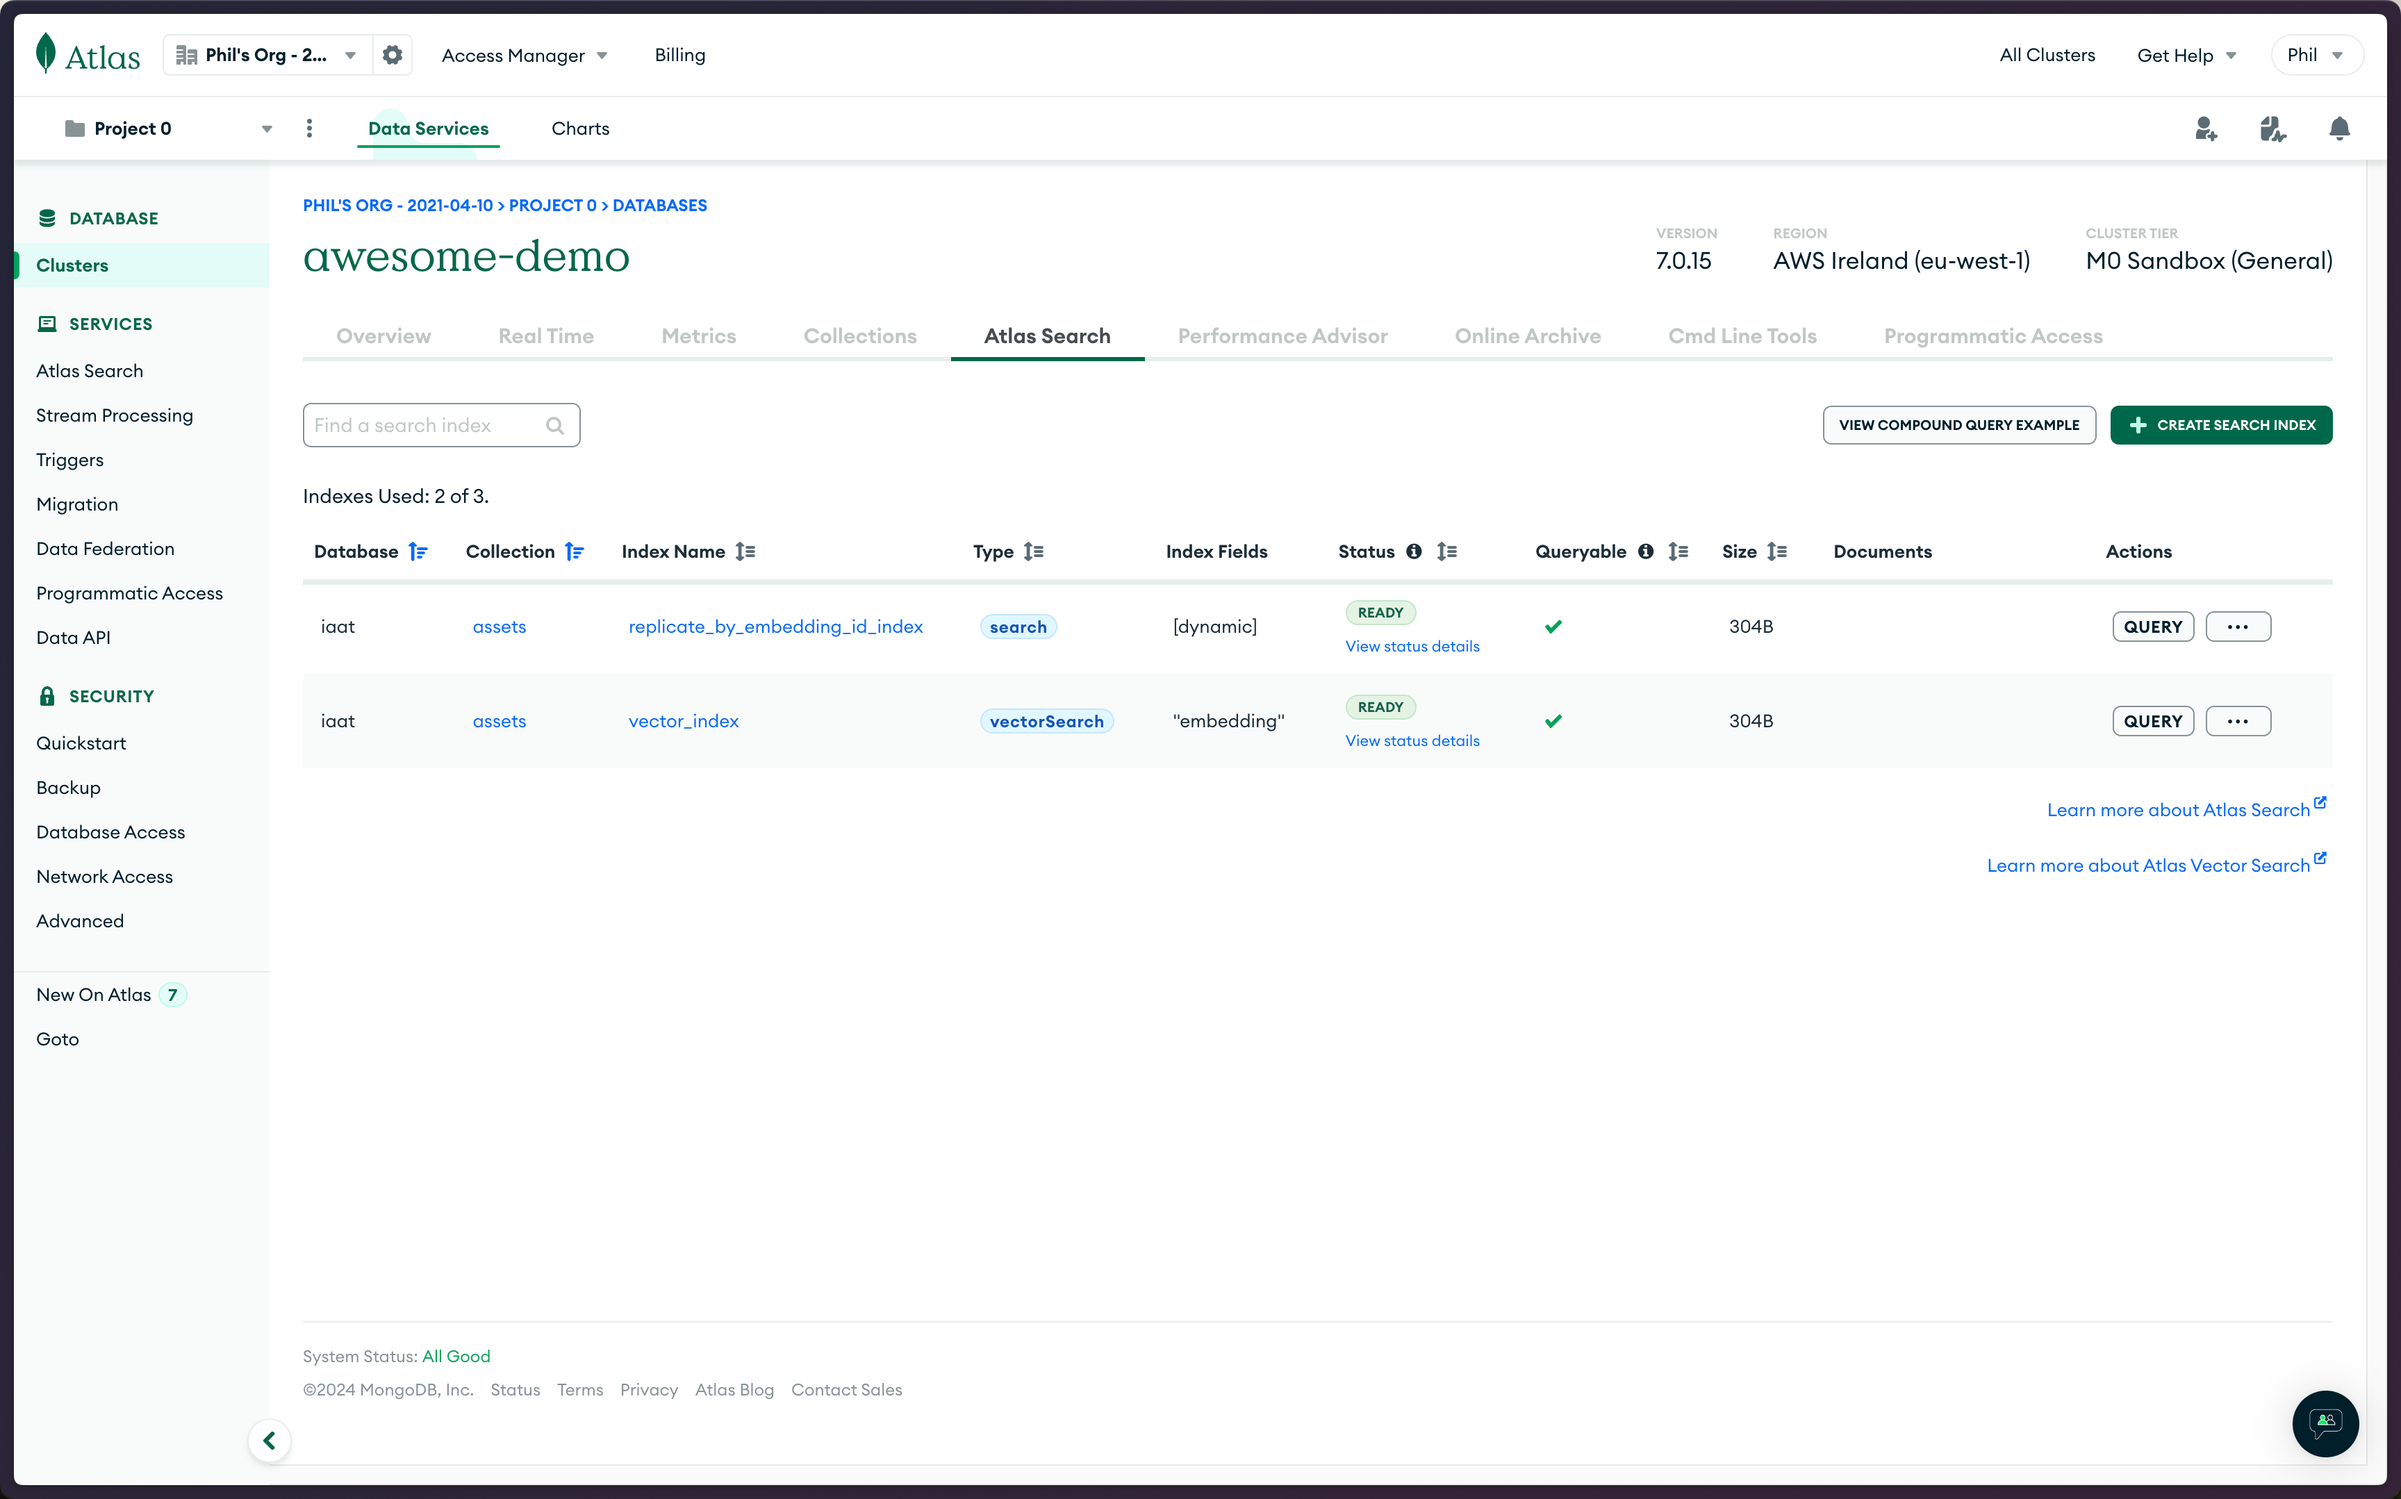
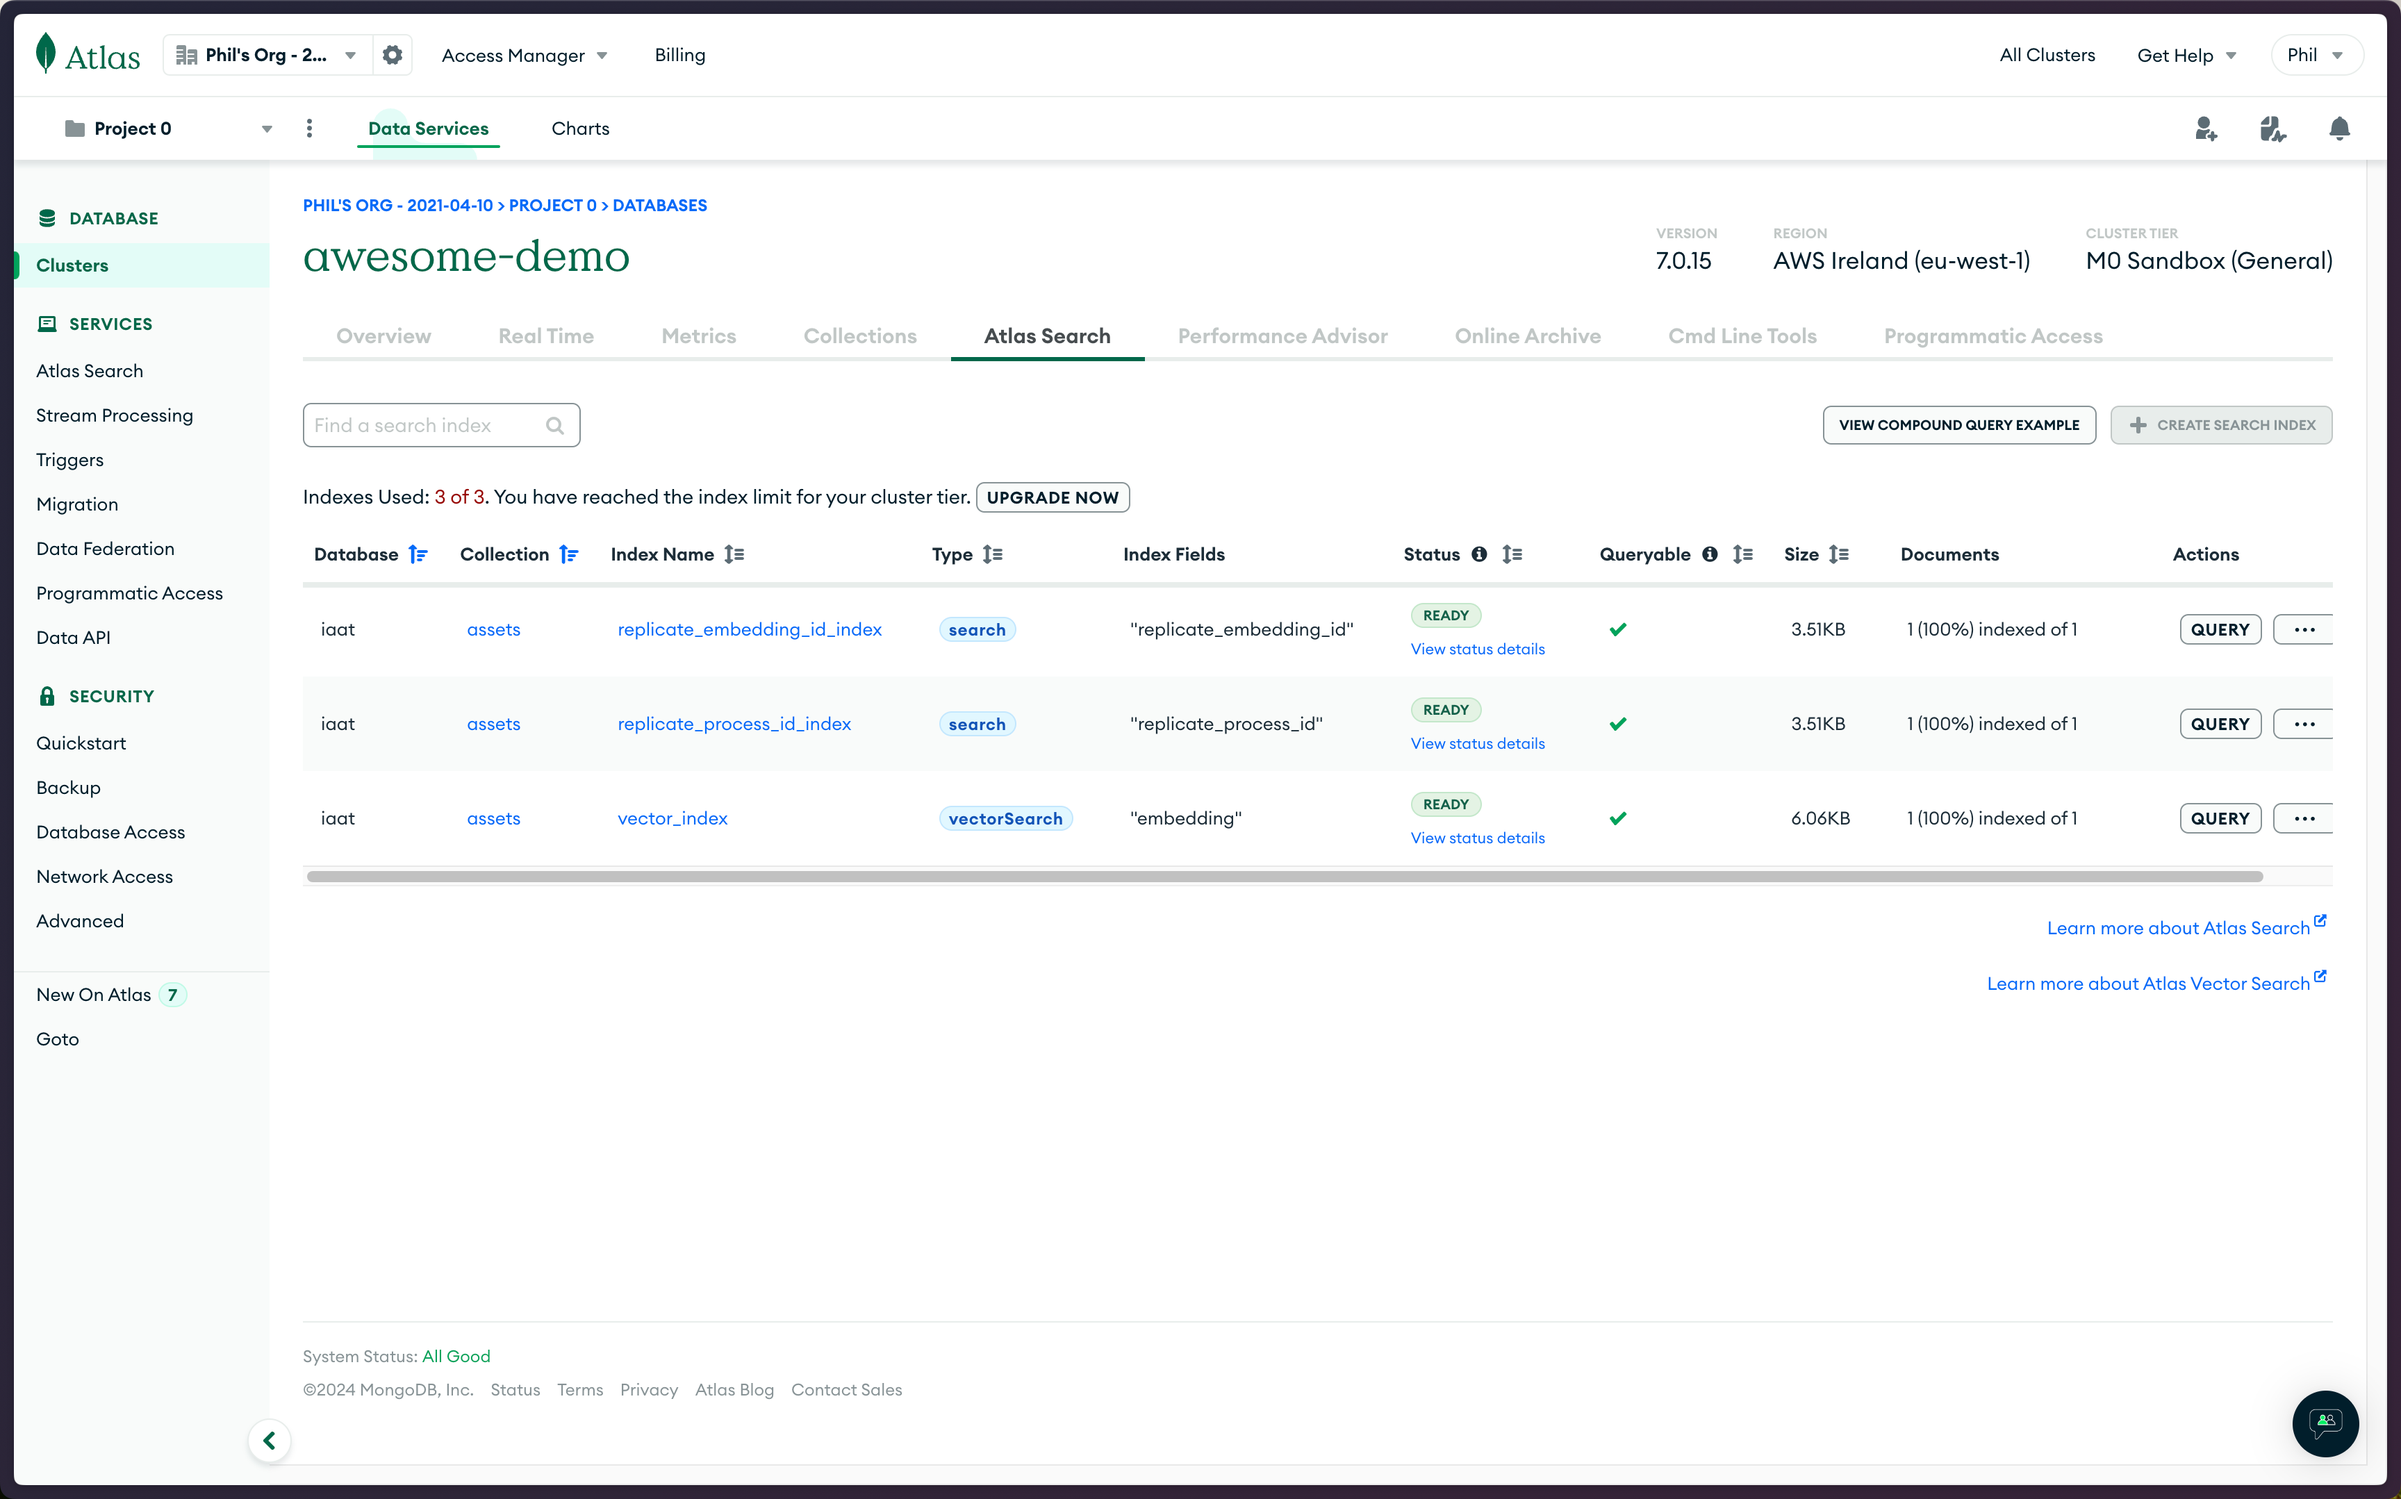
wip: all main content. Needs full review, intro update, and conclusion

diff --git a/app.py b/app.py
@@ -175,12 +175,11 @@ def request_embeddings(id):
 
 
 # Inspiration https://www.mongodb.com/developer/products/atlas/how-use-cohere-embeddings-rerank-modules-mongodb-atlas/#query-mongodb-vector-index-using--vectorsearch
-def query_vector_search(q, prefilter={}, postfilter={}, path="embedding", topK=2):
+def query_vector_search(q):
     # Because the search is user-driven, we use the synchronous generator
     generator = SyncEmbeddingsGenerator()
 
     generate_response = generator.generate(q)
-
     query_embedding = generate_response[0]["embedding"]
 
     app.logger.info("Query embedding generated")
@@ -188,14 +187,11 @@ def query_vector_search(q, prefilter={}, postfilter={}, path="embedding", topK=2
 
     vs_query = {
         "index": "vector_index",
-        "path": path,
+        "path": "embedding",
         "queryVector": query_embedding,
         "numCandidates": 10,
-        "limit": topK,
+        "limit": 2,
     }
-    if len(prefilter) > 0:
-        app.logger.info("Creating vector search query with pre filter")
-        vs_query["filter"] = prefilter
 
     new_search_query = {"$vectorSearch": vs_query}
 
@@ -216,13 +212,7 @@ def query_vector_search(q, prefilter={}, postfilter={}, path="embedding", topK=2
     database = Database()
     collection = database.get_collection()
 
-    if len(postfilter.keys()) > 0:
-        app.logger.info("Vector search query with post filter")
-        postFilter = {"$match": postfilter}
-        res = list(collection.aggregate([new_search_query, project, postFilter]))
-    else:
-        app.logger.info("Vector search query without post filter")
-        res = list(collection.aggregate([new_search_query, project]))
+    res = list(collection.aggregate([new_search_query, project]))
 
     app.logger.info("Vector search query run")
     app.logger.debug(res)

diff --git a/create-indexes.py b/create-indexes.py
@@ -43,17 +43,30 @@ create_or_update_search_index(
     "vectorSearch",
 )
 
+create_or_update_search_index(
+    "replicate_process_id_index",
+    {
+        "mappings": {
+            "fields": {
+                "replicate_process_id": {
+                    "type": "string",
+                },
+            },
+        }
+    },
+    "search",
+)
 
 create_or_update_search_index(
-    "replicate_by_embedding_id_index",
+    "replicate_embedding_id_index",
     {
-        "mappings": {"dynamic": True},
-        "fields": [
-            {
-                "type": "string",
-                "path": "replicate_embedding_id",
-            }
-        ],
+        "mappings": {
+            "fields": {
+                "replicate_embedding_id": {
+                    "type": "string",
+                },
+            },
+        }
     },
     "search",
 )

diff --git a/tutorial/README.md b/tutorial/README.md
@@ -292,19 +292,33 @@ vector_result = create_or_update_search_index(
 
 This creates or updates a vector search index named "vector_index" for the `embedding` field.
 
-Finally, create a search index for `replicate_embedding_id` because it's used when looking up documents when storing embedding results:
+Finally, create a search index for the fields `replicate_process_id` and `replicate_embedding_id` because they are used when looking up documents when handling webhook results from Replicate:
 
 ```py
-index_result = create_or_update_search_index(
-    "replicate_by_embedding_id_index",
+create_or_update_search_index(
+    "replicate_process_id_index",
     {
-        "mappings": {"dynamic": True},
-        "fields": [
-            {
-                "type": "string",
-                "path": "replicate_embedding_id",
-            }
-        ],
+        "mappings": {
+            "fields": {
+                "replicate_process_id": {
+                    "type": "string",
+                },
+            },
+        }
+    },
+    "search",
+)
+
+create_or_update_search_index(
+    "replicate_embedding_id_index",
+    {
+        "mappings": {
+            "fields": {
+                "replicate_embedding_id": {
+                    "type": "string",
+                },
+            },
+        }
     },
     "search",
 )
@@ -785,13 +799,182 @@ Check if the document was found and updated:
 
 If no document is found for the given `replicate_embedding_id`, an error is logged, and a JSON response with an error message is returned with a `404` status. If the update was success, return an `OK` to inform Hookdeck the webhook has been processed.
 
-With the vector embedding stored in the `embedding` property, it's not searchable with MongoDB due to the previously defined vector search index.
+With the vector embedding stored in the `embedding` property, it's now searchable with MongoDB due to the previously defined vector search index.
 
 ## H2: Searching using Atlas Vector Search
 
-H3: Handle Search Submission
-H3: Generate Search Query Embedding
+Search is user-driven. The user enters a search term and submits a form. That search query is handled, processed and the resulted returned and displayed. Let's walk through through each of those steps.
+
+![Search results](<search-results.png)
+
+### H3: Handle Search Submission
+
+The user navigates to the `/search` endpoint in their web browser, enters a search term and submits the form, making a `POST` request to the `/search` endpoint:
+
+```py
+@app.route("/search", methods=["POST"])
+def search_post():
+    query = request.form["query"]
+
+    app.logger.info("Query submitted")
+    app.logger.debug(query)
+
+    results = query_vector_search(query)
+
+    results = format_results(results)
+
+    app.logger.debug("Formatted search results", results)
+
+    return render_template("search.html", results=results, query=query)
+```
+
+The `search_post` function in the Flask application handles `POST` requests to the `/search` endpoint. It retrieves the search `query` from the form data submitted by the user and then performs a vector search using the `query_vector_search` function. The result is then formatted by passing the results to the `format_results` function. The formatted results are then rendered using the `search.html` template.
+
+The `query_vector_search` function performs a vector search using the query provided by the user, generates embeddings for the query, and retrieves matching documents from the MongoDB collection.
+
+```py
+def query_vector_search(q):
+```
+
+### H3: Generating Search Query Embeddings
+
+The function uses the `SyncEmbeddingsGenerator` to generate the embedding for the search query.
+
+```py
+    generator = SyncEmbeddingsGenerator()
+    generate_response = generator.generate(q)
+    query_embedding = generate_response[0]["embedding"]
+
+    app.logger.info("Query embedding generated")
+    app.logger.debug(query_embedding)
+```
+
+The `SyncEmbeddingsGenerated` is used to synchronously generate embeddings for the search query. This operation is synchronous because the request is user-driven and requires a direct response. `SyncEmbeddingsGenerated` is defined in `allthethings/generators.py`:
+
+```py
+class SyncEmbeddingsGenerator:
+
+    def generate(self, text):
+
+        input = {"text": text}
+        output = replicate.run(
+            "replicate/all-mpnet-base-v2:b6b7585c9640cd7a9572c6e129c9549d79c9c31f0d3fdce7baac7c67ca38f305",
+            input=input,
+        )
+
+        return output
+```
+
+The Replicate SDK is used to synchronously generate the embedding using the same model as the asynchronous generator. The result is returned to the calling `query_vector_search` function.
+
+### H3. Create Vector Search Query
+
+Back in `query_vector_search`, the embedding result is used to construct the vector search query.
+
+```py
+    generator = SyncEmbeddingsGenerator()
+    generate_response = generator.generate(q)
+    query_embedding = generate_response[0]["embedding"]
+
+    vs_query = {
+        "index": "vector_index",
+        "path": "embedding",
+        "queryVector": query_embedding,
+        "numCandidates": 10,
+        "limit": topK,
+    }
+
+    new_search_query = {"$vectorSearch": vs_query}
+
+    app.logger.info("Vector search query created")
+    app.logger.debug(new_search_query)
+```
+
+TODO: describe vs_query
+
 H3: Retrieve Vector Search Results
-H2: Conclusion
+
+Next, the function defines the projection to specify which fields to include in the search results.
+
+```py
+    project = {
+        "$project": {
+            "score": {"$meta": "vectorSearchScore"},
+            "_id": 0,
+            "url": 1,
+            "content_type": 1,
+            "content_length": 1,
+            "text": 1,
+        }
+    }
+```
+
+The projection includes the vector search score, URL, content type, content length, and text.
+
+The function then performs the aggregation query using the constructed vector search query and projection:
+
+```py
+    database = Database()
+    collection = database.get_collection()
+
+    app.logger.info("Vector search query without post filter")
+    res = list(collection.aggregate([new_search_query, project]))
+
+    app.logger.info("Vector search query run")
+    app.logger.debug(res)
+    return res
+```
+
+Overall, the `query_vector_search` function performs a vector search using the query provided by the user, generates embeddings for the query, and retrieves matching documents from the MongoDB collection.
+
+#### H3. Format and Display the Vector Search Results
+
+Once the results are available they are formatted for rendering:
+
+```py
+    results = format_results(results)
+```
+
+And within `format_results`, also defined in `app.py`:
+
+```py
+def format_results(results):
+    formatted_results = []
+    for _idx, index in enumerate(results):
+        parse_result = urlparse(index["url"])
+        parsed_url = {
+            "netloc": parse_result.netloc,
+            "path": parse_result.path,
+            "params": parse_result.params,
+            "query": parse_result.query,
+            "fragment": parse_result.fragment,
+            "hostname": parse_result.hostname,
+            "last_part": parse_result.path.rstrip("/").split("/")[-1],
+        }
+        index["parsed_url"] = parsed_url
+        formatted_results.append(index)
+
+    return formatted_results
+```
+
+The `format_results` function iterates over the vector search result and returns and array with each element containing the result along with a `parsed_url` property with information about the indexed asset.
+
+Finally, back in the `POST /search` route, display the results:
+
+```py
+@app.route("/search", methods=["POST"])
+def search_post():
+    ...
+
+    results = format_results(results)
+
+    return render_template("search.html", results=results, query=query)
+```
+
+This renders the `search.html` template, passing the formatted results and the original query to the template for display.
+
+## H2: Conclusion
+
+
 
 
